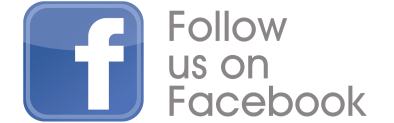
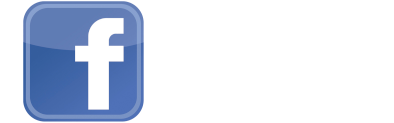
Uploading index.html without footer

Changed region(s): [[0.4264, 0.6829, 0.9442, 0.9512], [0.4264, 0.0732, 0.731, 0.3415], [0.4264, 0.439, 0.7005, 0.6585]]

diff --git a/opp/tpt/index.html b/opp/tpt/index.html
@@ -120,185 +120,7 @@
         </div>
       </div>
     </main>
-    <footer role="contentinfo">
-      <div role="navigation" id="sponsors">
-        <h2 id="sponsors-title">OUR AWESOME SPONSORS!</h2>
-        <ul role="presentation">
-          <li>
-            <figure class="sponsor">
-              <img
-                src="images/sponsors/mezz-2.png"
-                alt="Mezz logo"
-              />
-            </figure>
-          </li>
-          <li>
-            <figure class="sponsor">
-              <img
-                src="images/sponsors/clinkers.jpg"
-                alt="Clinkers logo"
-              />
-            </figure>
-          </li>
-          <li>
-            <figure class="sponsor">
-              <img
-                src="images/sponsors/bonesandme.jpg"
-                alt="Bones and Me logo"
-              />
-            </figure>
-          </li>
-          <li>
-            <figure class="sponsor">
-              <img
-                src="images/sponsors/zantip.png"
-                alt="Zan tip logo"
-              />
-            </figure>
-          </li>
-          <li>
-            <figure class="sponsor">
-              <img
-                src="images/sponsors/pool-player-podcast.png"
-                alt="Pool Player Podcast logo"
-              />
-            </figure>
-          </li>
-          <li>
-            <figure class="sponsor">
-              <img
-                src="images/sponsors/jamison-daniels.jpg"
-                alt="Jamison Daniels logo"
-              />
-            </figure>
-          </li>
-          <li>
-            <figure class="sponsor">
-              <img
-                src="images/sponsors/turtle-rack.jpg"
-                alt="The Turtle Rack logo"
-              />
-            </figure>
-          </li>
-          <li>
-            <figure class="sponsor">
-              <img
-                src="images/sponsors/booth-brothers.png"
-                alt="The Booth Brothers logo"
-              />
-            </figure>
-          </li>
-          <li>
-            <figure class="sponsor">
-              <img
-                src="images/sponsors/1801-photography.jpg"
-                alt="1801 Photography logo"
-              />
-            </figure>
-          </li>
-          <li>
-            <figure class="sponsor">
-              <img
-                src="images/sponsors/1pkt.png"
-                alt="One Pocket logo"
-              />
-            </figure>
-          </li>
 
-          <li>
-            <figure class="sponsor">
-              <img
-                src="images/sponsors/taom.jpg"
-                alt="Taom logo"
-              />
-            </figure>
-          </li>
-          <li>
-            <figure class="sponsor">
-              <img
-                src="images/sponsors/molina-mike.png"
-                alt="Molina Mike logo"
-              />
-            </figure>
-          </li>
-          <li>
-            <figure class="sponsor">
-              <img
-                src="images/sponsors/omega-billiards.png"
-                alt="Omega Billiards logo"
-              />
-            </figure>
-          </li>
-          <li>
-            <figure class="sponsor">
-              <img
-                src="images/sponsors/franco.jpg"
-                alt="Franco logo"
-              />
-            </figure>
-          </li>
-          <li>
-            <figure class="sponsor">
-              <img
-                src="images/sponsors/acme.jpg"
-                alt="ACME logo"
-              />
-            </figure>
-          </li>
-          <li>
-            <figure class="sponsor">
-              <img
-                src="images/sponsors/brutal-game-gear.png"
-                alt="Brutal Game Gear logo"
-              />
-            </figure>
-          </li>
-        </ul>
-      </div>
-      <div role="navigation" id="useful-links">
-        <ul role="presentation">
-          <li>
-            <a href="index.html">HOME</a>
-          </li>
-          <li>|</li>
-          <li>
-            <a href="barbox.html">BARBOX 9-BALL</a>
-          </li>
-          <li>|</li>
-          <li>
-            <a href="ladies.html">LADIES 9-BALL</a>
-          </li>
-          <li>|</li>
-          <li>
-            <a href="auction.html">AUCTION</a>
-          </li>
-          <li>|</li>
-          <li>
-            <a href="about.html">ABOUT US</a>
-          </li>
-        </ul>
-      </div>
-      <div role="navigation" id="socials">
-        <ul role="presentation">
-          <li id="facebook">
-            <a
-              href="https://www.facebook.com/thepeoplestournament"
-              target="_blank"
-            >
-              <figure class="social">
-                <img
-                  src="images/fb-lg.png"
-                  alt="The People's Tournament on Facebook"
-                />
-              </figure>  
-            </a>
-          </li>
-        </ul>
-      </div>
-      <div id="copyright">
-        <p>&copy2021, The People's Tournament, All Rights Reserved.</p>
-      </div>
-    </footer>
     <!-- JQuery -->
     <script src="https://cdnjs.cloudflare.com/ajax/libs/jquery/3.6.0/jquery.min.js"></script>
     <!-- Slick Carousel -->

diff --git a/opp/tpt/css/style.css b/opp/tpt/css/style.css
@@ -10,10 +10,17 @@ body {
   font-family: 'Balsamiq Sans', cursive;
   font-size: 16px;
   line-height: 1.2rem;
-  height: 100%;
+  min-height: 100%;
   color: #fff;
   background: #000;
+  
 }
+
+/*
+html {
+  border: 2px solid pink;
+}
+*/
 
 a {
   text-decoration: none;
